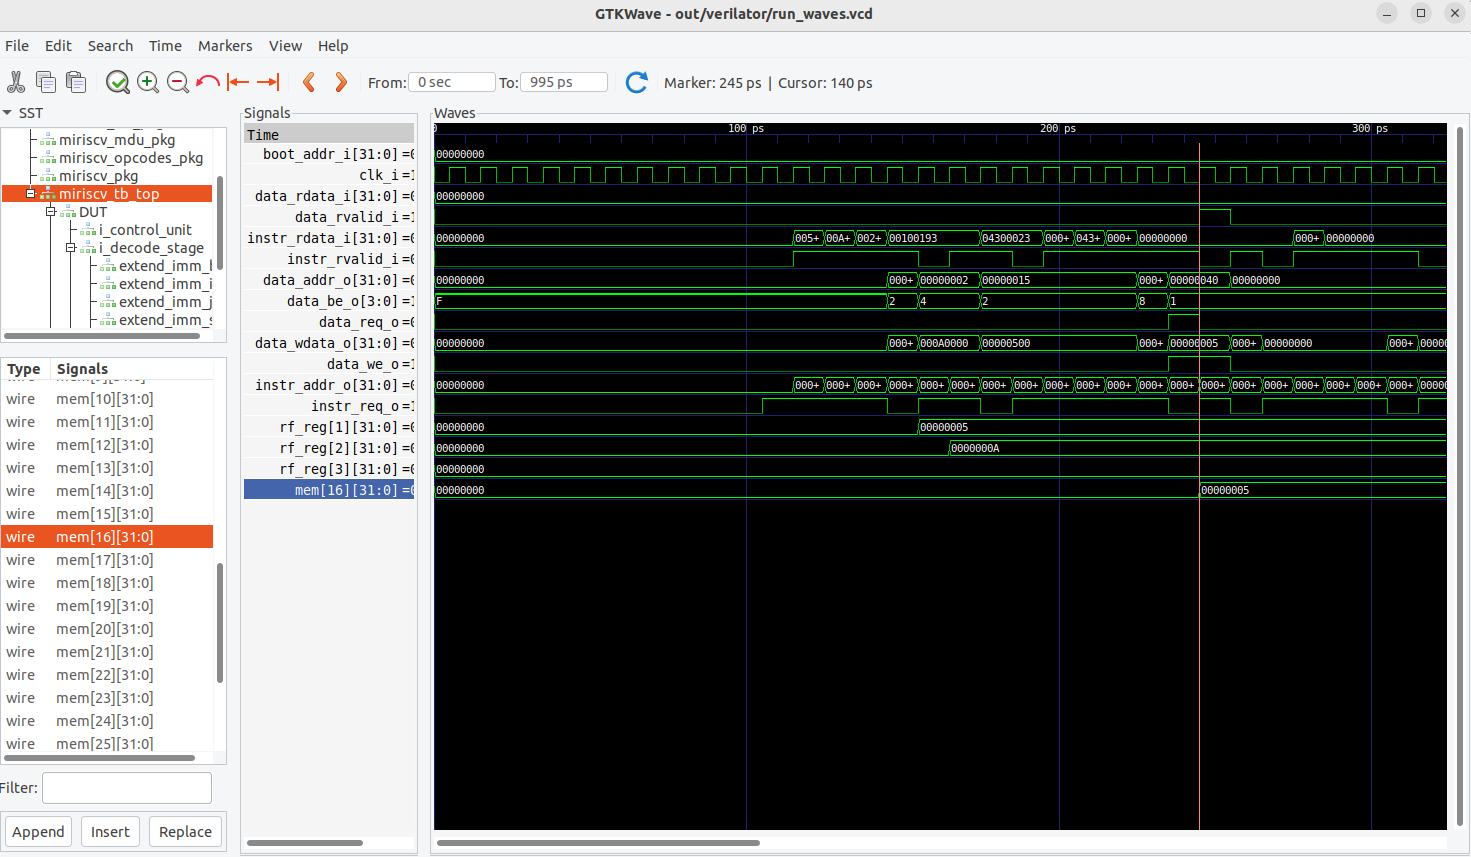
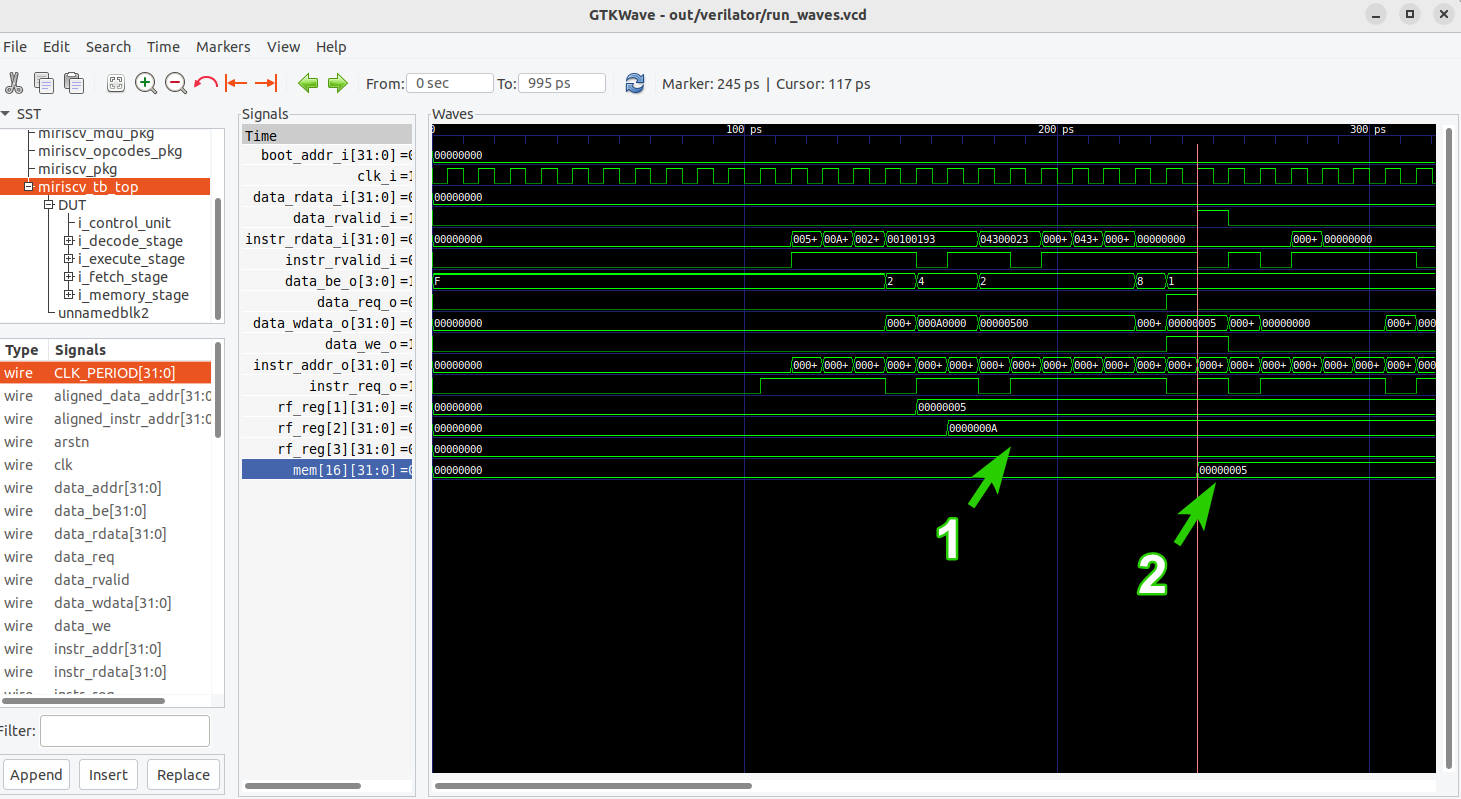
Feat(bughunt): Update README in bughunt 00

diff --git a/bughunt/00_regs/README.md b/bughunt/00_regs/README.md
@@ -35,7 +35,7 @@
 
 ## Краткое содержание
 
-Казалось бы, что может пойти не так при запуске простейшего "Hello world!" теста. Пара инструкций сложения, простое ветвление и запись результата в память. Но не все так просто! Вместе "распутываем" неочевидные взаимосвязи конвейера [MIRISCV](https://github.com/MPSU/MIRISCV/tree/b510b308addc4a7271e36f2a348bd18bf24c1d77) и ищем "виновника". **Занятие состоит из 3 основных этапов, выполняемых друг за другом.**
+Казалось бы, что может пойти не так при запуске простейшего ["Hello world!"](../../theory/03_func.md#hello-world) теста. Пара инструкций сложения, простое ветвление и запись результата в память. Но не все так просто! Вместе "распутываем" неочевидные взаимосвязи конвейера [MIRISCV](https://github.com/MPSU/MIRISCV/tree/b510b308addc4a7271e36f2a348bd18bf24c1d77) и ищем "виновника". **Занятие состоит из 3 основных этапов, выполняемых друг за другом.**
 
 [Применение подхода "Hello world!"](#применение-подхода-hello-world) - для верификации процессорного ядра применяется подход "Hello world" Анализируются лог-файлы и временные диаграммы, а также делается вывод о некорректности исполнения программы процессорным ядром. Далее автором производится анализ RTL процессорного ядра и временных диаграмм с целью локализации ошибки. [Исправление ошибки](#исправление-ошибки) - найденная ршибка исправляется, автором приводятся обоснования внесенным изменениям. [Проверка корректности работы](#проверка-корректности-работы) - к исправленной версии ядра вновь применяется подход "Hello world!", подтверждается корректность работы.
 
@@ -121,14 +121,13 @@ cd build/ && rm -rf out/
 
 Запускать симуляцию будем при помощи [Verilator 5.024](https://github.com/verilator/verilator/tree/522bead374d6b7b2adb316304126e5361b18bcf1).
 
-
 Создадим директорию для сохранения артефактов симуляции:
 
 ```
 mkdir -p out/verilator
 ```
 
-**Скомпилируем RTL тестируемого ядра и сам файл окружения** при помощи Verilator (команда содержит большое количество аргументов, ниже разберем их значение):
+**Скомпилируем RTL тестируемого ядра и сам файл окружения** при помощи Verilator:
 
 ```bash
 verilator -Wno-WIDTHEXPAND -Wno-WIDTHTRUNC -Wno-UNUSEDSIGNAL -Wno-UNUSEDPARAM \
@@ -179,9 +178,9 @@ gedit out/verilator/run.log
 
 Делаем вывод, что симуляция завершилась так, как мы ожидали (а как мы ожидали - написано в [соответствующем разделе практического занятия](../../practice/00_basic_hex/README.md#лог-файлы)), и теперь можно анализировать временную диаграмму, расположенную в директории `out/verilator`.
 
-Заранее ткроем тестовую программу:
+Заранее откроем тестовую программу:
 
-```
+```bash
 gedit program.hex
 ```
 
@@ -214,9 +213,9 @@ gtkwave out/verilator/run_waves.vcd
 0000006f // jal x0, 0
 ```
 
-Процессорное ядро в ходе корректного выполнения программы должно записать в регистр 3 значение 1, а после записать в память по адресу 64 значение 1 и оказаться в бесконечном цикле (разбор - в [соответствующем разделе практического занятия](../../practice/00_basic_hex/README.md#написание-тестовой-программы)).
+Процессорное ядро в ходе корректного выполнения программы должно записать в регистр 3 значение 1, а после записать в память по адресу 64 (16 ячейка памяти) значение 1 и оказаться в бесконечном цикле (разбор - в [соответствующем разделе практического занятия](../../practice/00_basic_hex/README.md#написание-тестовой-программы)).
 
-На временной диаграмме не наблюдаем записи значения 1 в регистр 3, а в память по адресу 64 вместо значение 1 записывается значение 5. Ядро некорретно выполняет программу.
+На временной диаграмме не наблюдаем записи значения 1 в регистр 3 (1), а в память по адресу 64 (в 16 ячейку) вместо значения 1 записывается значение 5 (2). Ядро некорретно выполняет программу.
 
 
 ### Поиск ошибки
@@ -512,12 +511,119 @@ assign r2_addr = f_instr_i[24:20];
 
 ## Проверка корректности работы
 
-TODO: Перезапустить
+Удалим артефакты от предыдущих запусков:
+
+```bash
+rm -rf out/
+```
+
+Повторим шаги, связанные с компиляцией и симуляцией выполнения программы процессорным ядром из раздела [сборка и запуск симуляции](#сборка-и-запуск-симуляции).
+
+<details>
+  <summary>Какие шаги?</summary>
+
+---
+
+Создадим директорию для сохранения артефактов симуляции:
+
+```
+mkdir -p out/verilator
+```
+
+**Скомпилируем RTL тестируемого ядра и сам файл окружения** при помощи Verilator:
+
+```bash
+verilator -Wno-WIDTHEXPAND -Wno-WIDTHTRUNC -Wno-UNUSEDSIGNAL -Wno-UNUSEDPARAM \
+-Wno-PINMISSING -Wno-GENUNNAMED -Wno-CASEINCOMPLETE -Wno-UNOPTFLAT -Wno-INFINITELOOP \
+-Wno-MULTIDRIVEN -Wno-INITIALDLY -cc -O2 -j 1 --threads 1 --binary \
+../../../submodules/MIRISCV/miriscv/rtl/include/*.sv ../../../submodules/MIRISCV/miriscv/rtl/*.sv \
+../tb/miriscv_tb_top.sv +incdir+../tb/ --trace --trace-params --trace-structs --x-assign 0 \
+-top-module miriscv_tb_top -Mdir out/verilator &> out/verilator/compile.log
+```
+
+Откроем файл лог-файл компиляции `out/verilator/compile.log` любым редактором:
+
+```bash
+gedit out/verilator/compile.log
+```
+
+Увидим что-то похожее на:
+
+```bash
+- V e r i l a t i o n   R e p o r t:
+- Verilator: Built from 2.592 MB sources in 27 modules, into 0.901 MB in 12 C++ files needing 0.001 MB
+- Verilator: Walltime 0.331 s (elab=0.009, cvt=0.053, bld=0.242); cpu 0.000 s on 1 threads; alloced 29.789 MB
+```
+
+Компиляция завершилась успешно. Запустим симуляцию:
+
+```bash
+out/verilator/Vmiriscv_tb_top +bin=program.hex \
+  +dump=out/verilator/run_waves.vcd &> out/verilator/run.log
+```
+
+Любым редактором откроем лог-файл симуляции `out/verilator/run.log`:
+
+```bash
+gedit out/verilator/run.log
+```
+
+Увидим что-то похожее на:
+
+```bash
+- ../tb/../tb/miriscv_tb_top.sv:95: Verilog $finish
+- S i m u l a t i o n   R e p o r t:
+- Verilator: $finish at 1ns; walltime 0.001 s; speed 0.000 s/s
+- Verilator: cpu 0.000 s on 1 threads; alloced 57 MB
+```
+
+Делаем вывод, что симуляция завершилась так, как мы ожидали (а как мы ожидали - написано в [соответствующем разделе практического занятия](../../practice/00_basic_hex/README.md#лог-файлы)), и теперь можно анализировать временную диаграмму, расположенную в директории `out/verilator`.
+
+---
+
+</details>
+<br>
+
+Заранее откроем тестовую программу:
+
+```bash
+gedit program.hex
+```
+
+А после временную диаграмму при помощи GTKWave:
+
+```bash
+gtkwave out/verilator/run_waves.vcd
+```
+
+Добавим все необходимые сигналы на временную диаграмму: входные и выходные порты процессора, его регистры общего назначения с 1 по 3, а также ячейку памяти с номером 16.
+
+Увидим следующую картину:
+
+![](../../doc/pic/regs_8.png)
+
+Вернемся к коду тестовой программы:
+
+```
+00500093 // addi x1, x0, 5
+00a00113 // addi x2, x0, 10
+00208863 // beq x1, x2, 16
+00100193 // addi x3, x0, 1
+04300023 // sb x3, 64(x0)
+0000006f // jal x0, 0
+00000193 // addi x3, x0, 0
+04300023 // sb x3, 64(x0)
+0000006f // jal x0, 0
+```
+
+Вспомним, что процессорное ядро в ходе корректного выполнения программы должно записать в регистр 3 значение 1, а после записать в память по адресу 64 (16 ячейку памяти) значение 1 и оказаться в бесконечном цикле (разбор - в [соответствующем разделе практического занятия](../../practice/00_basic_hex/README.md#написание-тестовой-программы)).
+
+Именно это мы и наблюдаем на временной диаграмме выше. Запись значения 1 в регистр общего назначения 3 (1) и запись значения 1 в память по адресу 64 (16 ячейку памяти) (2). Также отметим запись верных значений 5 и 10 в регистры общего назначения 1 и 2 (3). **Ошибка исправлена, ядро корректно выполняет программу!**
 
 
 ## Выводы
 
-
+В ходе данного занятия к процессорному ядру [MIRISCV](https://github.com/MPSU/MIRISCV/tree/b510b308addc4a7271e36f2a348bd18bf24c1d77) был применен верификационный подход ["Hello world!"](../../theory/03_func.md#hello-world). Был сделан вывод о некорректности работы ядра. Ошибка была локализована и исправлена, симуляция запущена повторно, подтверждено корректное выполнение тестовой программы.
 
 [^1]: Хороший ознакомительный материал об уровнях привилегий в RISC-V расположен по [ссылке](https://danielmangum.com/posts/risc-v-bytes-privilege-levels/).
 

diff --git a/bughunt/README.md b/bughunt/README.md
@@ -16,7 +16,7 @@
   
   **Краткое описание:**
 
-  Казалось бы, что может пойти не так при запуске простейшего "Hello world!" теста. Пара инструкций сложения, простое ветвление и запись результата в память. Но не все так просто! Вместе "распутываем" неочевидные взаимосвязи конвейера [MIRISCV](https://github.com/MPSU/MIRISCV/tree/b510b308addc4a7271e36f2a348bd18bf24c1d77) и ищем "виновника".
+  Казалось бы, что может пойти не так при запуске простейшего ["Hello world!"](../../theory/03_func.md#hello-world) теста. Пара инструкций сложения, простое ветвление и запись результата в память. Но не все так просто! Вместе "распутываем" неочевидные взаимосвязи конвейера [MIRISCV](https://github.com/MPSU/MIRISCV/tree/b510b308addc4a7271e36f2a348bd18bf24c1d77) и ищем "виновника".
 
 
 ---
